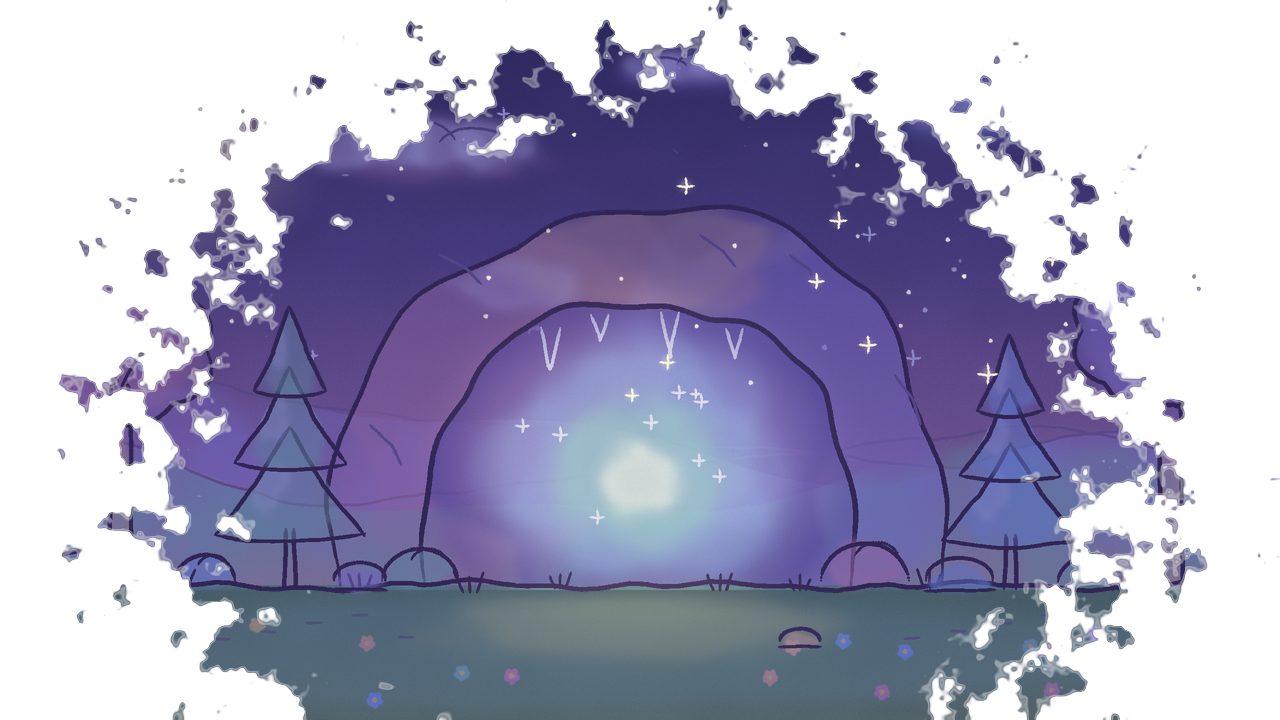
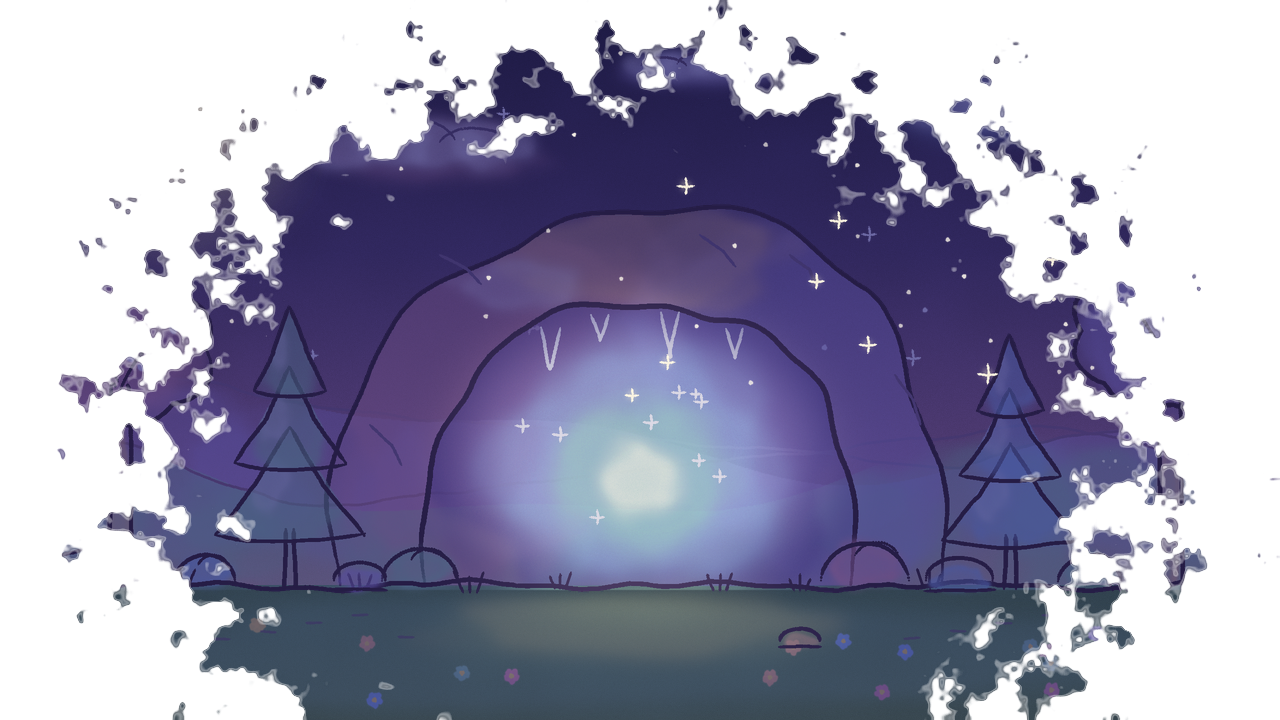
되찾은 색 밤 다듬기: 컬러를 더 어둡게, 로고 뒤 빛 번짐 끔, 밤 전용 버튼 (남보랏빛 수채 종이, 보랏빛 펜 테두리, 은은한 흰빛 글씨)

diff --git a/tools/gen_title_pastel.py b/tools/gen_title_pastel.py
@@ -42,8 +42,14 @@ def sparkle_stroke(sh, x, y, r, color, alpha=230, width=2.2):
     sh.stroke([(x - r, y), (x, y + r * 0.15), (x + r, y)], width, color, alpha, amp=0.2)
 
 
-def button(label, fill_color, seed, hover, size=(300, 96)):
-    """처음 버전과 같은 종이 쪽지 버튼 (글씨만 감자꽃 손글씨)."""
+NIGHT_PAPER = (58, 50, 98)       # 밤 버튼 종이: 남보랏빛
+NIGHT_TEXT = (226, 218, 236)     # 밤 버튼 글씨: 눈에 띄지 않는 은은한 흰빛
+
+
+def button(label, fill_color, seed, hover, size=(300, 96), night=False):
+    """처음 버전과 같은 종이 쪽지 버튼 (글씨만 감자꽃 손글씨).
+    night: 밤 배경용. 달빛 아래 어스름한 종이 — 남보랏빛 종이에 버튼 색을 옅게 섞고,
+    펜 선은 낮 버튼과 같은 보랏빛 펜, 글씨는 은은한 흰빛(어두운 그림자). 올리면 색이 밝게 번지고 반짝인다."""
     bw, bh = size
     sh = Sheet(bw, bh, seed=seed)
     sh.line = PLUM
@@ -59,19 +65,42 @@ def button(label, fill_color, seed, hover, size=(300, 96)):
         bezier((x0, y0 + r), (x0, y0 - 1), (x0 + 2, y0 - 1), (x0 + r + 10, y0 - 1), 6)[1:]
     fill = Sheet(bw, bh, seed=seed + 1)
     rx, ry = (x1 - x0) / 2 + 10, (y1 - y0) / 2 + 10
-    fill.wash(bw / 2, bh / 2, rx, ry, (255, 252, 248), alpha=255, layers=2, blur=4, wobble=0.04)
-    fill.wash(bw / 2, bh / 2, rx, ry, fill_color, alpha=255 if hover else 150, layers=4, blur=4, wobble=0.05)
-    fill.wash(bw / 2 - 70, bh / 2 - 8, 60, 14, WHITE, alpha=130, layers=2)
+    if night:
+        k = 0.8 if hover else 0.62  # 버튼 색이 섞이는 정도
+        mix = lambda a, b, t: tuple(int(x * (1 - t) + y * t) for x, y in zip(a, b))  # noqa: E731
+        tint = mix(NIGHT_PAPER, fill_color, k)
+        deep = mix(NIGHT_PAPER, fill_color, k * 0.55)
+        light = mix(tint, (255, 250, 240), 0.22)
+        fill.fill_poly([(0, 0), (bw, 0), (bw, bh), (0, bh)], deep, 255)
+        # 물감 얼룩을 여러 겹: 가장자리가 진하게 마른 자국(edge), 농담이 고르지 않게
+        rng = fill.rng
+        for i in range(4):
+            cx_ = x0 + (x1 - x0) * (0.15 + 0.7 * i / 3) + rng.uniform(-14, 14)
+            fill.wash(cx_, bh / 2 + rng.uniform(-6, 6), rng.uniform(52, 72), rng.uniform(24, 32), tint,
+                      alpha=rng.randint(170, 220), layers=3, edge=1.8, blur=2.5, wobble=0.16)
+        # 물이 번져 밝게 빠진 자리 하나 (수채 블룸)
+        fill.wash(bw / 2 + rng.uniform(-60, 60), bh / 2 - 4, rng.uniform(26, 36), rng.uniform(12, 16), light,
+                  alpha=150 if hover else 110, layers=3, edge=2.2, blur=1.8, wobble=0.2)
+    else:
+        fill.wash(bw / 2, bh / 2, rx, ry, (255, 252, 248), alpha=255, layers=2, blur=4, wobble=0.04)
+        fill.wash(bw / 2, bh / 2, rx, ry, fill_color, alpha=255 if hover else 150, layers=4, blur=4, wobble=0.05)
+        fill.wash(bw / 2 - 70, bh / 2 - 8, 60, 14, WHITE, alpha=130, layers=2)
     sh.masked(fill, poly_mask((bw, bh), box))
     sh.stroke(box, 4.2)
-    sh.stroke([(x0 + 24, y1 + 5), (x1 - 6, y1 + 4)], 2.2, SOFT_PLUM, 150)
+    if not night:  # 밤엔 종이 아래 그림자 선이 어두운 땅에 묻혀 지저분해 보여서 뺀다
+        sh.stroke([(x0 + 24, y1 + 5), (x1 - 6, y1 + 4)], 2.2, SOFT_PLUM, 150)
     if hover:
         sparkle_stroke(sh, x1 - 4, y0 + 2, 9, (255, 236, 150), 255, 2.6)
         sparkle_stroke(sh, x0 + 6, y1 - 4, 6, WHITE, 255, 2.2)
     f = hand_font(40)
-    sh.ink_text(label, f, bw / 2 + 2, bh / 2 + 4, WHITE, 220, anchor='mm')
-    sh.ink_text(label, f, bw / 2, bh / 2 + 2, PLUM, 255, anchor='mm')
-    sh.ink_text(label, f, bw / 2 + 0.8, bh / 2 + 2, PLUM, 255, anchor='mm')  # 살짝 두껍게
+    if night:
+        sh.ink_text(label, f, bw / 2 + 2, bh / 2 + 4, (34, 28, 60), 140, anchor='mm')  # 옅은 그림자
+        text = NIGHT_TEXT
+    else:
+        sh.ink_text(label, f, bw / 2 + 2, bh / 2 + 4, WHITE, 220, anchor='mm')
+        text = PLUM
+    sh.ink_text(label, f, bw / 2, bh / 2 + 2, text, 255, anchor='mm')
+    sh.ink_text(label, f, bw / 2 + 0.8, bh / 2 + 2, text, 255, anchor='mm')  # 살짝 두껍게
     return sh.result()
 
 

diff --git a/title_mode.py b/title_mode.py
@@ -33,7 +33,8 @@ LAYOUTS = {
                'button_gap': 300, 'button_y': 78},
     # 되찾은 색: 파스텔과 같은 배치. letters = I·n·k 색 층의 (로고 중심 기준 x, y, 물들기 시작하는 진행도)
     'restore': {'logo': (640, 560), 'bottle_y': 262, 'bottle_scale': 0.9, 'button_gap': 300, 'button_y': 78,
-                'letters': ((194, -12, 0.42), (262, -12, 0.50), (340, -12, 0.58)), 'late_ui': 0.8},
+                'letters': ((194, -12, 0.42), (262, -12, 0.50), (340, -12, 0.58)), 'late_ui': 0.8,
+                'logo_glow': False},  # 로고 뒤 빛 번짐이 어두운 배경에서 뿌옇게 깜빡여서 끈다
 }
 LAYOUTS['restore_night'] = LAYOUTS['restore']  # 밤 버전은 배경만 다르다
 LETTER_FADE = 0.06  # 글자 하나가 다 물드는 데 걸리는 진행도
@@ -282,7 +283,8 @@ def draw_scene():
     # 로고: 처음에 위에서 내려앉으며 나타난다
     k = ease_out(t / INTRO)
     logo_y = logo_base_y + (1 - k) * 40 + math.sin(t * 1.1) * 4
-    draw_with_alpha(logo_glow, k * (0.55 + 0.25 * math.sin(t * 1.5)), logo_x, logo_y)
+    if lay.get('logo_glow', True):
+        draw_with_alpha(logo_glow, k * (0.55 + 0.25 * math.sin(t * 1.5)), logo_x, logo_y)
     draw_with_alpha(logo, k, logo_x, logo_y)
     p = dye_progress()
     for img, (_, _, start) in zip(logo_inks, lay.get('letters', ())):

diff --git a/tools/gen_title_bg.py b/tools/gen_title_bg.py
@@ -54,9 +54,9 @@ def sparkle_stroke(sh, x, y, r, color, alpha=230, width=2.2):
 # ================================================================ 배경
 DAY_SKY = [(0.0, (196, 182, 236)), (0.35, (226, 196, 236)), (0.62, (250, 208, 222)),
            (GROUND / H, (255, 228, 208)), (GROUND / H + 0.001, (220, 240, 222)), (1.0, (238, 244, 226))]
-NIGHT_SKY = [(0.0, (44, 40, 94)), (0.35, (70, 58, 124)), (0.62, (108, 82, 146)),
-             (GROUND / H, (138, 102, 150)), (GROUND / H + 0.001, (74, 96, 110)), (1.0, (88, 106, 114))]
-NIGHT_TINT = np.array((0.56, 0.55, 0.80), np.float32)  # 밤에 물체에 곱하는 빛깔
+NIGHT_SKY = [(0.0, (30, 27, 70)), (0.35, (50, 41, 96)), (0.62, (80, 60, 116)),
+             (GROUND / H, (104, 76, 122)), (GROUND / H + 0.001, (52, 70, 84)), (1.0, (62, 78, 88))]
+NIGHT_TINT = np.array((0.44, 0.43, 0.66), np.float32)  # 밤에 물체에 곱하는 빛깔
 
 
 def sky_gradient(night=False):
